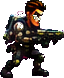
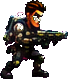
Mold Mission: fix clipped TyGuy sprites — use exact figure bounds
The hand-tuned crop boxes were slicing heads, guns, arms and feet (nearly every
pose clipped an edge). Re-derived each box from the figure's exact connected
silhouette (flood the component from a seed, take its bbox + 2px margin), so no
limb, weapon, or foot is cut off. All poses verified clip-free (the climb pose's
lone "LEFT" flag is a neighbour-frame sliver that keep-largest discards; the
climber itself is whole). Fringe strip and de-spill unchanged.

Verified: python3 games/mold_mission/mold_mission.py --selftest
-> selftest OK: all 5 missions win

Claude-Session: https://claude.ai/code/session_01C7stTX2MiAL5f8VZvZr1zp

diff --git a/games/mold_mission/cut_tyguy.py b/games/mold_mission/cut_tyguy.py
@@ -15,19 +15,20 @@ from PIL import Image
 SHEET = "art_reference/pending/tyguy_full_animation_guide_magenta.png"
 OUT = "assets"
 
-# (key, (l, t, r, b), keep_largest)
+# (key, (l, t, r, b), keep_largest). Boxes are each figure's exact connected
+# silhouette bounds + a 2px margin, so no limb/gun/foot is ever clipped.
 POSES = [
-    ("player",         (47, 132, 103, 236), True),   # IDLE
-    ("player_run",     (426, 132, 508, 236), True),  # RUN
-    ("player_dash",    (694, 132, 803, 236), True),  # DASH / SPRINT
-    ("player_jump",    (850, 128, 913, 236), True),  # JUMP UP
-    ("player_fall",    (1181, 128, 1257, 238), True),  # JUMP DOWN
-    ("player_aim",     (24, 502, 104, 598), True),   # AIM (IDLE)
-    ("player_shoot",   (197, 502, 335, 598), True),  # SHOOT
-    ("player_hurt",    (1009, 502, 1063, 598), True),  # TAKE DAMAGE (LIGHT)
-    ("player_reload",  (446, 502, 512, 598), True),  # RELOAD
-    ("player_victory", (34, 770, 92, 852), False),   # VICTORY
-    ("player_climb",   (997, 256, 1044, 344), False),  # CLIMB LADDER (front)
+    ("player",         (49, 124, 102, 224), True),    # IDLE
+    ("player_run",     (424, 132, 513, 222), True),   # RUN
+    ("player_dash",    (665, 133, 818, 223), True),   # DASH / SPRINT
+    ("player_jump",    (850, 125, 925, 221), True),   # JUMP UP
+    ("player_fall",    (1179, 132, 1257, 222), True),  # JUMP DOWN
+    ("player_aim",     (25, 496, 101, 583), True),    # AIM (IDLE)
+    ("player_shoot",   (197, 497, 281, 582), True),   # SHOOT
+    ("player_hurt",    (1010, 499, 1062, 580), True),  # TAKE DAMAGE (LIGHT)
+    ("player_reload",  (446, 499, 518, 582), True),   # RELOAD
+    ("player_victory", (35, 768, 89, 843), True),     # VICTORY
+    ("player_climb",   (996, 222, 1045, 336), True),  # CLIMB LADDER (front)
 ]
 
 
